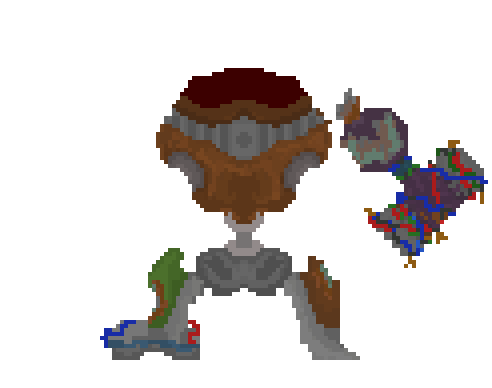
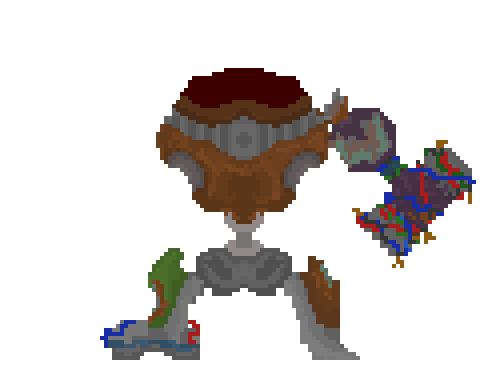
Tinkerers Workshop Upgrades!

Changed region(s): [[0.6402, 0.2165, 1.0, 0.7113]]

diff --git a/gamedata/areadata.js b/gamedata/areadata.js
@@ -13975,66 +13975,73 @@ chloroville: {
 431,431,431,431,431,431,431,431,431,431,431,431,431,431,431,431,431,431,429,430,429,430,429,430,429,430,429,430,429,430,431,431,431,431,431,431,431,431,431,431,431,431,431,431,431,431,431,431,
 453,453,453,453,453,453,453,453,453,453,453,453,453,453,453,453,453,431,437,438,437,438,437,437,437,437,437,438,437,438,431,453,453,453,453,453,453,453,453,453,453,453,453,453,453,453,453,453,
 431,431,431,431,431,431,431,431,431,431,431,431,431,431,431,431,431,485,425,425,429,430,457,458,459,460,429,425,425,430,485,431,431,431,431,431,431,431,431,431,431,431,431,431,431,431,431,431,
-429,425,425,425,351,351,425,430,429,430,429,425,425,351,351,351,351,485,425,351,351,438,465,466,467,468,437,425,425,425,485,425,425,425,351,351,429,430,429,430,429,430,429,430,429,430,429,430,
-437,438,437,425,351,351,351,438,437,438,437,438,425,425,425,351,351,485,351,351,351,430,473,474,475,476,429,425,351,351,485,425,425,351,351,438,437,438,437,438,437,438,437,438,351,351,425,438,
-429,430,429,425,351,430,429,430,429,430,429,430,429,425,425,425,429,485,351,351,437,438,481,482,483,484,437,438,437,438,485,430,429,430,429,430,429,430,429,430,425,425,425,351,351,425,425,430,
-351,438,437,438,437,438,437,438,437,438,437,438,437,438,437,438,437,485,431,431,431,431,456,456,456,456,431,431,431,431,485,438,437,438,437,438,437,438,437,438,425,425,351,351,425,425,425,438,
-351,430,429,430,429,430,429,351,351,430,429,430,429,430,429,430,429,485,431,431,431,431,456,456,456,456,431,431,431,431,485,430,429,430,429,430,429,430,429,430,425,351,351,351,351,430,429,430,
-351,438,437,438,437,351,351,425,351,438,437,438,437,438,437,351,351,485,431,431,431,485,455,455,455,455,485,431,431,431,485,438,437,351,425,425,425,425,437,438,437,351,351,425,437,438,437,438,
-429,429,429,430,429,351,425,425,351,351,429,430,429,430,429,351,351,485,425,425,429,436,436,436,436,436,436,429,425,425,485,351,351,351,351,351,425,425,429,430,429,351,425,425,429,430,429,430,
-437,441,437,438,437,351,425,351,351,351,437,438,437,438,437,438,437,436,436,436,435,435,436,436,436,435,435,436,436,436,436,351,425,425,351,351,437,438,437,438,437,438,437,438,437,438,441,438,
-436,428,428,428,428,428,428,439,428,428,428,428,428,428,428,428,428,436,436,436,435,435,435,435,435,435,436,435,435,436,436,428,428,428,428,428,428,428,428,428,428,439,428,428,439,428,428,436,
-436,428,428,428,428,439,428,428,428,428,428,439,428,428,428,428,428,436,436,435,435,436,436,436,436,436,436,436,435,436,436,428,428,428,428,428,428,428,428,439,428,428,428,439,428,428,428,436,
-436,428,428,428,428,428,428,428,428,428,439,428,428,428,428,428,428,436,436,435,435,436,436,436,436,436,436,436,436,436,436,428,428,428,428,428,428,428,428,428,428,439,428,428,428,428,428,436,
-436,428,428,428,428,428,428,428,428,428,428,428,428,428,428,428,428,436,436,436,435,435,436,435,435,436,436,436,435,436,436,428,428,428,428,428,428,428,439,428,428,428,428,428,439,428,428,436,
-436,428,428,439,428,428,428,428,428,428,428,428,428,428,428,428,428,436,436,436,436,436,436,436,435,435,435,435,435,436,436,428,428,428,428,428,428,439,428,428,428,428,428,439,439,428,428,436,
-436,428,428,428,428,428,439,428,439,428,428,428,428,428,428,428,428,436,436,436,436,436,436,436,436,436,436,436,436,436,436,428,428,428,428,439,439,439,428,439,439,439,428,428,428,428,428,436,
-436,428,428,439,428,428,428,428,428,428,428,428,428,428,428,428,441,433,433,433,433,433,433,433,433,433,433,433,433,433,433,441,428,428,428,428,428,428,428,439,428,428,428,428,428,428,428,436,
-436,428,428,428,428,439,428,428,428,439,428,428,428,439,428,428,428,456,456,456,456,456,456,456,456,456,456,456,456,456,456,428,428,428,439,439,428,428,428,428,428,428,428,428,439,428,428,436,
-436,428,428,428,428,428,428,428,428,428,428,428,428,428,428,428,428,455,455,455,455,455,455,455,455,455,455,455,455,455,455,428,428,428,439,428,428,428,428,439,439,428,428,439,439,428,428,436,
-436,428,439,428,428,428,428,428,428,428,439,428,428,428,428,428,428,456,456,456,456,456,456,456,456,456,456,456,456,456,456,428,428,428,428,439,439,428,439,439,439,428,428,428,428,428,428,436,
-436,428,428,428,428,428,428,428,428,428,428,428,428,428,439,428,428,455,455,455,455,455,455,455,455,455,455,455,455,455,455,428,439,428,428,428,428,428,428,428,428,428,428,428,428,428,428,436,
-436,449,449,449,449,449,449,449,449,449,428,428,428,428,428,428,428,428,428,428,428,428,428,428,428,428,428,428,428,428,428,428,428,428,428,428,439,439,449,449,449,449,449,449,449,449,449,436,
-436,429,430,429,430,429,430,429,430,428,428,439,428,428,439,428,428,428,428,428,428,428,428,428,428,428,428,428,428,428,428,428,428,428,439,428,428,428,428,429,430,429,430,429,430,429,430,436,
-436,437,438,437,438,437,438,437,438,428,428,428,428,428,428,428,428,428,428,428,428,428,428,428,428,428,428,428,428,428,428,428,428,428,428,439,428,428,428,437,438,437,438,437,438,437,438,436,
-436,436,436,436,436,436,436,436,436,449,449,449,449,449,449,449,449,428,428,428,428,428,428,428,428,428,428,428,428,428,428,449,449,449,449,449,449,449,449,436,436,436,436,436,436,436,436,436,
-436,436,436,436,436,436,436,436,436,429,430,429,430,429,430,429,430,428,428,428,428,428,428,428,428,428,428,428,428,428,428,429,430,429,430,429,430,429,430,436,436,436,436,436,436,436,436,436,
-436,436,436,436,436,436,436,436,436,437,438,437,438,437,438,437,438,428,428,428,428,428,428,428,428,428,428,428,428,428,428,437,438,437,438,437,438,437,438,436,436,436,436,436,436,436,436,436,
-436,436,436,436,436,436,436,436,436,456,456,456,456,456,456,456,456,428,428,428,428,428,428,428,428,428,428,428,428,428,428,456,456,456,456,456,456,456,456,436,436,436,436,436,436,436,436,436,
-436,436,436,436,436,436,436,436,436,456,456,456,456,456,456,456,456,428,428,428,428,428,428,428,428,428,428,428,428,428,428,456,456,456,456,456,456,456,456,436,436,436,436,436,436,436,436,436],
+429,425,425,425,351,351,485,455,455,455,455,485,425,351,351,351,351,485,425,351,351,438,465,466,467,468,437,425,425,425,485,425,425,425,351,351,485,455,455,455,455,485,429,430,429,430,429,430,
+437,438,437,425,351,351,485,456,456,456,456,485,425,425,425,351,351,485,351,351,351,430,473,474,475,476,429,425,351,351,485,425,425,351,351,438,485,456,456,456,456,485,437,438,351,351,425,438,
+429,430,429,425,351,430,485,455,455,455,455,485,429,425,425,425,429,485,351,351,437,438,481,482,483,484,437,438,437,438,485,430,429,430,429,430,485,455,455,455,455,485,425,351,351,425,425,430,
+351,438,437,438,437,438,485,456,456,456,456,485,437,438,437,438,437,485,431,431,431,431,456,456,456,456,431,431,431,431,485,438,437,438,437,438,485,456,456,456,456,485,351,351,425,425,425,438,
+351,430,429,430,429,430,485,455,455,455,455,485,429,430,429,430,429,485,431,431,431,431,456,456,456,456,431,431,431,431,485,430,429,430,429,430,485,455,455,455,455,485,351,351,351,430,429,430,
+351,438,437,438,437,351,485,456,456,456,456,485,437,438,437,351,351,485,431,431,431,485,455,455,455,455,485,431,431,431,485,438,437,351,425,425,485,456,456,456,456,485,351,425,437,438,437,438,
+429,429,429,430,429,351,485,455,455,455,455,485,429,430,429,351,351,485,425,425,429,436,436,436,436,436,436,429,425,425,485,351,351,351,351,351,485,455,455,455,455,485,425,425,429,430,429,430,
+437,441,437,438,437,351,439,439,439,439,439,439,437,438,437,438,437,485,436,436,435,435,436,436,436,435,435,436,436,436,485,351,425,425,351,351,439,439,439,439,439,439,437,438,437,438,441,438,
+431,428,428,428,428,428,428,439,428,428,428,428,428,428,428,428,428,436,436,436,435,435,435,435,435,435,436,435,435,436,436,428,428,428,428,428,428,428,428,428,428,439,428,428,439,428,428,431,
+431,428,428,428,428,439,428,428,428,428,428,439,428,428,428,428,428,436,436,435,435,436,436,436,436,436,436,436,435,436,436,428,428,428,428,428,428,428,428,439,428,428,428,439,428,428,428,431,
+431,428,428,428,428,428,428,428,428,428,439,428,428,428,428,428,428,436,436,435,435,436,436,436,436,436,436,436,436,436,436,428,428,428,428,428,428,428,428,428,428,439,428,428,428,428,428,431,
+431,428,428,428,428,428,428,428,428,428,428,428,428,428,428,428,428,436,436,436,435,435,436,435,435,436,436,436,435,436,436,428,428,428,428,428,428,428,439,428,428,428,428,428,439,428,428,431,
+431,428,428,439,428,428,428,428,428,428,428,428,428,428,428,428,428,436,436,436,436,436,436,436,435,435,435,435,435,436,436,428,428,428,428,428,428,439,428,428,428,428,428,439,439,428,428,431,
+431,428,428,428,428,428,439,428,439,428,428,428,428,428,428,428,428,436,436,436,436,436,436,436,436,436,436,436,436,436,436,428,428,428,428,439,439,439,428,439,439,439,428,428,428,428,428,431,
+431,455,455,455,455,455,455,455,455,455,455,455,455,455,455,455,441,426,426,426,426,426,426,426,426,426,426,426,426,426,426,441,455,455,455,455,455,455,455,455,455,455,455,455,455,455,455,431,
+431,436,436,436,436,435,436,436,436,435,436,436,436,435,436,436,436,434,434,434,434,434,434,434,434,434,434,434,434,434,434,436,436,436,435,435,436,436,436,436,436,436,436,436,435,436,436,431,
+431,436,436,436,436,436,436,436,436,436,436,436,436,436,436,436,436,456,456,456,456,456,456,456,456,456,456,456,456,456,456,436,436,436,435,436,436,436,436,435,435,436,436,435,435,436,436,431,
+431,436,435,436,436,436,436,436,436,436,435,436,436,436,436,436,436,456,456,456,456,456,456,456,456,456,456,456,456,456,456,436,436,436,436,435,435,436,435,435,435,436,436,436,436,436,436,431,
+431,436,436,436,436,436,436,436,436,436,436,436,436,436,435,436,436,456,456,456,456,456,456,456,456,456,456,456,456,456,456,436,435,436,436,436,436,436,436,436,436,436,436,436,436,436,436,431,
+431,449,449,449,449,449,449,449,449,449,436,436,436,436,436,436,436,456,456,456,456,456,456,456,456,456,456,456,456,456,456,436,436,436,436,436,435,435,449,449,449,449,449,449,449,449,449,431,
+431,485,425,425,430,429,430,429,430,436,436,435,436,436,435,436,436,456,456,456,456,456,456,456,456,456,456,456,456,456,456,436,436,436,435,436,436,436,436,429,425,425,351,429,430,429,485,431,
+455,485,425,425,351,437,438,437,351,436,436,436,436,436,436,436,436,456,456,456,456,456,456,456,456,456,456,456,456,456,456,436,436,436,436,435,436,436,436,437,438,425,425,351,438,437,485,455,
+436,485,430,351,430,429,430,351,351,449,449,449,449,449,449,449,449,456,456,456,456,456,456,456,456,456,456,456,456,456,456,449,449,449,449,449,449,449,449,429,430,351,425,351,430,429,485,436,
+436,436,438,437,438,437,425,351,351,485,425,351,351,429,430,429,430,456,456,456,456,456,456,456,456,456,456,456,456,456,456,429,425,351,351,429,430,429,485,437,438,437,438,437,438,437,436,436,
+436,436,436,436,436,436,436,436,436,485,425,425,351,437,438,437,438,456,456,456,456,456,456,456,456,456,456,456,456,456,456,437,425,425,351,437,438,437,485,436,436,436,436,436,436,436,436,436,
+436,436,436,436,436,436,436,436,436,485,351,351,351,429,430,429,430,429,430,351,425,425,430,429,430,429,430,351,425,351,430,429,430,351,351,429,430,429,485,436,436,436,436,436,436,436,436,436,
+436,436,436,436,436,436,436,436,436,436,438,437,438,437,438,437,438,437,351,425,425,425,425,437,438,437,351,425,425,425,351,437,438,437,438,437,438,437,436,436,436,436,436,436,436,436,436,436
+
+
+],
 
 	[0,0,0,0,0,0,0,0,0,0,0,0,0,0,0,0,442,446,0,0,0,0,0,0,0,0,0,0,0,0,446,445,0,0,0,0,0,0,0,0,0,0,0,0,0,0,0,0,
 0,0,0,0,0,0,0,0,0,0,0,0,0,0,432,0,442,0,447,0,0,0,0,0,352,0,0,0,352,448,0,445,0,440,0,0,0,0,0,0,0,0,0,0,0,0,0,0,
 0,0,0,0,0,0,0,0,0,0,0,0,0,0,0,0,442,0,0,0,379,379,379,379,352,0,0,379,352,0,0,445,0,0,0,0,0,0,0,0,0,0,0,0,0,0,0,0,
 0,0,0,0,0,0,0,0,0,0,0,0,0,0,0,0,442,0,0,379,352,0,0,0,0,0,0,352,379,379,0,445,0,0,0,0,0,0,0,0,0,0,0,0,0,0,0,0,
 0,0,0,0,0,0,0,0,0,0,0,0,0,0,0,0,0,447,0,352,352,0,0,0,0,0,0,352,352,0,448,0,0,0,0,0,0,0,0,0,0,0,0,0,0,0,0,0,
-379,379,379,379,352,0,379,379,379,352,0,0,0,0,0,0,379,379,0,352,352,0,0,0,0,0,0,352,352,0,0,0,0,0,0,0,0,0,0,0,379,379,379,379,352,0,379,379,
-0,0,0,352,0,0,352,0,0,379,379,379,379,379,379,379,352,0,0,352,352,0,0,0,0,0,0,352,352,0,0,0,379,379,379,379,379,379,379,379,352,0,0,0,0,0,352,0,
-379,379,379,352,0,0,352,0,0,352,0,0,0,0,0,0,352,0,0,352,352,0,0,0,0,0,0,352,352,0,0,0,352,0,0,0,0,0,0,0,0,379,379,379,379,379,352,0,
-0,379,379,379,379,379,352,0,0,352,0,0,379,379,379,379,352,0,0,0,0,0,0,0,0,0,0,0,0,0,379,379,352,0,0,0,0,379,379,379,379,352,0,0,0,0,0,0,
-0,352,0,352,0,0,0,0,0,352,0,0,352,0,0,0,352,0,0,446,0,0,0,0,0,0,0,0,478,0,0,0,352,0,0,379,379,352,0,0,0,352,0,0,0,0,0,0,
-0,352,0,352,0,0,379,379,379,352,379,379,352,0,0,379,352,0,0,0,367,447,0,0,0,0,448,367,367,0,0,0,352,0,0,352,0,379,379,379,379,352,0,379,379,379,379,379,
-0,352,0,352,0,0,352,0,0,0,352,0,352,0,0,352,0,0,0,0,0,432,0,0,0,0,440,0,0,0,0,0,352,0,0,352,0,352,0,0,0,352,0,352,0,0,0,0,
-0,454,0,352,0,0,352,0,0,0,352,0,352,0,0,352,0,432,0,0,0,0,0,0,367,367,0,0,0,0,440,0,352,0,0,352,0,352,0,0,0,352,0,352,0,0,454,0,
-0,441,0,0,0,446,0,0,0,0,0,0,0,478,0,0,0,395,0,478,367,0,367,0,0,367,0,367,446,0,396,0,0,0,478,0,0,368,0,0,0,0,446,0,0,0,441,0,
+379,379,379,379,352,0,447,0,0,0,0,448,0,0,0,0,379,379,0,352,352,0,0,0,0,0,0,352,352,0,0,0,0,0,0,0,447,0,0,0,0,448,379,379,352,0,379,379,
+0,0,0,352,0,0,352,0,0,0,0,0,379,379,379,379,352,0,0,352,352,0,0,0,0,0,0,352,352,0,0,0,379,379,379,379,352,0,0,0,0,0,0,0,0,0,352,0,
+379,379,379,352,0,0,352,0,0,0,0,0,0,0,0,0,352,0,0,352,352,0,0,0,0,0,0,352,352,0,0,0,352,0,0,0,352,0,0,0,0,0,379,379,379,379,352,0,
+0,379,379,379,379,379,352,0,0,0,0,0,379,379,379,379,352,0,0,0,0,0,0,0,0,0,0,0,0,0,379,379,352,0,0,0,352,0,0,0,0,0,0,0,0,0,0,0,
+0,352,0,352,0,0,0,0,0,0,0,0,352,0,0,0,352,0,0,446,0,0,0,0,0,0,0,0,478,0,0,0,352,0,0,379,0,0,0,0,0,0,0,0,0,0,0,0,
+0,352,0,352,0,0,0,0,0,0,0,0,352,0,0,379,352,0,0,0,367,447,0,0,0,0,448,367,367,0,0,0,352,0,0,352,0,0,0,0,0,0,0,379,379,379,379,379,
+0,352,0,352,0,0,489,489,489,489,489,489,352,0,0,352,0,0,0,0,0,432,0,0,0,0,440,0,0,0,0,0,352,0,0,352,489,489,489,489,489,489,0,352,0,0,0,0,
+0,454,0,352,0,0,432,0,0,0,0,440,352,0,0,352,0,0,0,0,0,0,0,0,367,367,0,0,0,0,0,0,352,0,0,352,432,0,0,0,0,440,0,352,0,0,454,0,
+0,441,0,0,0,446,0,0,0,0,0,0,0,478,0,0,410,432,0,478,367,0,367,0,0,367,0,367,446,0,440,409,0,0,478,0,0,368,0,0,0,0,446,0,0,0,441,0,
 0,441,0,367,0,0,0,0,367,0,0,0,0,0,0,0,0,395,367,0,0,0,0,0,0,0,367,0,367,0,396,0,0,0,0,0,0,0,0,0,0,0,367,0,0,0,441,0,
 0,441,0,0,0,0,0,0,0,0,0,0,0,0,0,0,0,395,0,0,0,0,0,0,0,0,0,0,0,0,396,0,0,367,368,0,0,0,0,0,0,0,0,0,0,0,441,0,
 0,441,0,0,0,368,0,0,0,0,0,0,0,0,0,0,0,395,0,0,367,0,0,0,0,0,0,367,367,0,396,0,0,0,0,0,0,367,0,0,0,368,0,0,0,0,441,0,
 0,441,0,0,0,0,0,0,0,0,0,0,0,368,367,0,0,395,0,446,0,0,0,367,0,0,0,0,478,0,396,0,0,0,0,0,0,0,0,0,0,0,0,0,0,0,441,0,
-0,441,478,0,0,0,0,0,0,0,0,0,0,0,0,0,0,395,0,0,0,0,0,0,0,0,0,0,0,0,396,0,0,0,0,0,0,0,0,0,0,0,0,0,0,478,441,0,
-0,441,0,368,0,0,0,0,0,0,0,0,0,0,0,446,454,0,0,0,0,0,0,0,0,0,0,0,0,0,0,454,446,0,0,0,0,0,368,0,0,0,0,0,0,0,441,0,
-0,441,0,0,0,367,0,0,0,0,0,0,0,0,0,0,441,0,367,0,0,0,0,0,0,0,0,0,367,0,0,441,0,0,0,0,0,0,0,0,0,0,367,0,0,0,441,0,
-0,441,0,0,0,0,0,368,0,0,0,0,0,0,0,0,441,0,0,0,0,0,0,0,0,0,0,0,0,0,0,441,0,0,0,0,0,0,0,0,0,0,0,0,368,0,441,0,
-0,441,367,0,0,0,0,0,367,0,0,0,367,0,0,0,441,0,0,367,0,0,0,0,0,0,0,0,367,0,0,441,0,0,0,368,0,0,0,0,0,0,0,0,0,0,441,0,
-0,441,0,0,446,0,0,0,0,0,0,0,0,0,0,446,441,0,0,0,0,0,0,0,0,0,0,0,0,0,0,441,446,0,367,0,0,0,0,0,0,0,0,446,0,0,441,0,
-0,441,449,449,449,449,449,449,449,441,0,0,0,0,0,0,441,395,478,0,0,0,0,0,0,0,0,0,0,446,396,441,0,0,0,0,0,0,441,449,449,449,449,449,449,449,441,0,
+0,441,478,0,0,0,0,0,0,0,0,0,0,0,0,0,446,491,489,489,489,489,489,489,489,489,489,489,489,489,490,446,0,0,0,0,0,0,0,0,0,0,0,0,0,478,441,0,
+0,441,0,368,0,0,0,0,0,0,0,0,0,0,0,0,454,0,0,0,352,0,352,0,379,379,379,352,0,352,0,454,0,0,0,0,0,0,368,0,0,0,0,0,0,0,441,0,
+0,441,446,0,0,367,0,0,0,0,0,0,0,0,0,478,441,379,379,379,352,0,352,0,352,0,0,0,0,352,0,441,478,0,0,0,0,0,0,0,0,0,367,0,0,446,441,0,
+0,441,0,0,0,0,0,368,0,0,0,0,0,0,0,0,441,395,478,0,0,0,0,0,0,0,0,0,0,446,396,441,0,0,0,0,0,0,0,0,0,0,0,0,368,0,441,0,
+0,441,367,0,0,0,0,0,367,0,0,0,367,0,0,0,441,395,0,0,0,0,0,0,0,0,0,0,0,0,396,441,0,0,0,368,0,0,0,0,0,0,0,0,0,0,441,0,
+0,441,0,0,478,0,0,0,0,0,0,0,0,0,0,446,441,395,0,0,0,0,0,0,0,0,0,0,0,0,396,441,446,0,367,0,0,0,0,0,0,0,0,478,0,0,441,0,
+0,441,449,449,449,449,449,449,449,441,0,0,0,0,0,0,441,395,0,0,0,0,0,0,0,0,0,0,0,0,396,441,0,0,0,0,0,0,441,449,449,449,449,449,449,449,441,0,
 0,379,352,379,379,379,379,352,379,441,0,0,0,0,367,0,441,395,0,0,0,0,0,0,0,0,0,0,0,0,396,441,0,0,0,0,0,0,441,352,0,0,379,352,0,379,352,0,
-0,379,379,352,0,0,0,0,352,441,0,0,478,0,0,0,441,395,0,368,0,0,0,0,0,0,0,0,368,0,396,441,0,0,0,478,0,0,441,352,379,379,352,352,0,352,0,0,
-0,0,0,0,0,0,0,0,396,441,449,449,449,449,449,449,441,395,0,0,0,0,0,0,368,0,0,0,0,0,396,441,449,449,449,449,449,449,441,395,0,0,0,0,0,0,0,0,
-0,0,0,0,0,0,0,446,396,352,0,0,0,379,379,379,379,395,0,0,0,0,0,0,0,0,0,0,0,0,396,352,379,379,379,352,379,352,379,395,446,367,0,0,0,0,0,0,
-0,367,0,0,0,0,0,367,396,352,379,379,379,352,0,0,352,395,0,0,0,0,0,0,0,0,0,0,0,0,396,352,352,0,0,352,352,352,352,395,0,0,0,0,0,0,0,0,
-0,0,0,0,0,0,0,0,396,0,0,0,0,0,0,0,0,395,0,0,0,368,0,0,0,0,0,0,368,0,396,0,0,0,0,0,0,0,0,395,0,0,0,0,0,0,0,0,
-0,0,0,0,0,0,0,0,396,0,367,0,0,0,0,0,0,395,446,0,0,0,0,0,0,0,0,0,0,478,396,0,0,0,0,0,367,0,0,395,0,0,0,0,0,0,367,0]
+0,379,379,352,0,0,0,0,352,441,0,0,478,0,0,0,441,395,0,0,0,0,0,0,0,0,0,0,0,0,396,441,0,0,0,478,0,0,441,352,379,379,352,352,0,352,0,0,
+0,0,0,0,0,0,0,0,0,441,449,449,449,449,449,449,441,395,0,0,0,0,0,0,0,0,0,0,0,0,396,441,449,449,449,449,449,449,441,0,0,0,0,0,0,0,0,0,
+0,440,0,0,0,0,0,0,0,0,0,0,0,379,379,379,379,409,446,0,0,0,0,0,0,0,0,0,0,478,410,352,379,379,379,352,379,352,0,0,0,367,0,0,0,0,432,0,
+0,367,0,0,0,0,0,367,0,0,379,379,379,352,0,0,489,489,489,489,489,489,489,489,489,489,489,489,489,489,489,489,352,0,0,352,352,352,0,0,0,0,0,0,0,0,0,0,
+0,0,0,0,0,0,0,0,0,0,0,0,0,0,0,0,0,0,0,0,0,0,0,0,0,0,0,0,0,0,0,0,0,0,0,0,0,0,0,0,0,0,0,0,0,0,0,0,
+0,0,0,0,0,0,0,0,0,440,367,0,0,0,0,0,0,0,0,0,0,0,0,0,0,0,0,0,0,0,0,0,0,0,0,0,367,0,432,0,0,0,0,0,0,0,367,0
+
+
+
+]
 		],
 
 		},
@@ -14052,8 +14059,8 @@ chloroville: {
 	},
 	things: [
 		{
-			x: [928.9, 575.4, 639.2, 889.1, 961.2, 1927.1, 2044, 2275, 2309.4, 2221.8, 2560.6, 2686.6, 590, 700.2,  2281.6, 2176.9, 2695.8, 2599, 192.3, 257.4, 484.1, 138.5, 197.6],
-			y: [1880.8, 1873.2, 1943.9, 1944.6, 1945.3, 1945.3, 1891.4, 1973.9, 1918.6, 1913.7, 1742.9, 1742.9, 570.4, 659.7, 541, 631.7, 598.9, 683.4, 1711.6, 1768, 1709.2, 762.8, 695],
+			x: [928.9, 575.4, 639.2, 889.1, 961.2, 1927.1, 2044, 2275, 2309.4, 2221.8, 2560.6, 2686.6, 790, 900.2,  2081.6, 1976.9, 2695.8, 2599, 192.3, 257.4, 484.1, 138.5, 197.6],
+			y: [1980.8, 1973.2, 2043.9, 2044.6, 2045.3, 2045.3, 1991.4, 2073.9, 2018.6, 2013.7, 1842.9, 1842.9, 570.4, 659.7, 541, 631.7, 598.9, 683.4, 1811.6, 1868, 1809.2, 762.8, 695],
 			image: "gearSteel",
 			name: "gearSteel",
 			crop: {
@@ -14070,7 +14077,7 @@ chloroville: {
 			},
 		},
 		{
-			x: 1441, y: 1106,
+			x: 1441, y: 1650,
 			image: "tinkererMech",
 			name: "tinkererMech",
 			crop: {
@@ -14088,8 +14095,8 @@ chloroville: {
 },
 
 		{
-			x: [2258.5, 2193.9, 666.4, 2689, 2629.6, 2364.4, 1952.2, 2269.3, 2619.7, 840.1, 665.8, 388.5, 282.1],
-			y: [618.7, 555.9, 576.8, 689, 538.7, 584.2, 1869.9, 1855.9, 1684.8, 1884.5, 1862.5, 1700.6, 1681.7],
+			x: [2058.5, 1993.9, 866.4, 2689, 2629.6, 1964.4, 1952.2, 2269.3, 2619.7, 840.1, 665.8, 388.5, 282.1],
+			y: [618.7, 555.9, 576.8, 689, 538.7, 584.2, 1969.9, 1955.9, 1784.8, 1984.5, 1962.5, 1800.6, 1781.7],
 			image: "gearRust",
 			name: "gearRust",
 			crop: {
@@ -14145,8 +14152,8 @@ chloroville: {
 
 
 		{
-			x: [2760.1, 2282.4, 842.1, 771.3, 301.7, 2581.9, 2112, 484.2, 29.1, 2043.4, 1313, 1570.3, 1572.1, 1307.8, 1307.8, 1561.5],
-			y: [525.9, 525.9, 525.9, 1903.7, 1722.9, 1722.9, 1912.8, 526.8, 526.8, 526.8, 290.9, 290.9, 329.4, 329.4, 398.7, 398.7],
+			x: [2760.1, 2282.4, 842.1, 771.3, 301.7, 2581.9, 2112, 484.2, 29.1, 2043.4, 1313, 1570.3, 1572.1, 1307.8, 1307.8, 1561.5, 1258.7, 1620.9, 1259.2, 1623.1],
+			y: [525.9, 525.9, 525.9, 1903.7, 1722.9, 1722.9, 1912.8, 526.8, 526.8, 526.8, 290.9, 290.9, 329.4, 329.4, 398.7, 398.7, 1374.1, 1374.1, 2034.8, 2034.8],
 			image: "tinkererWires",
 			name: "tinkererWires",
 		},
